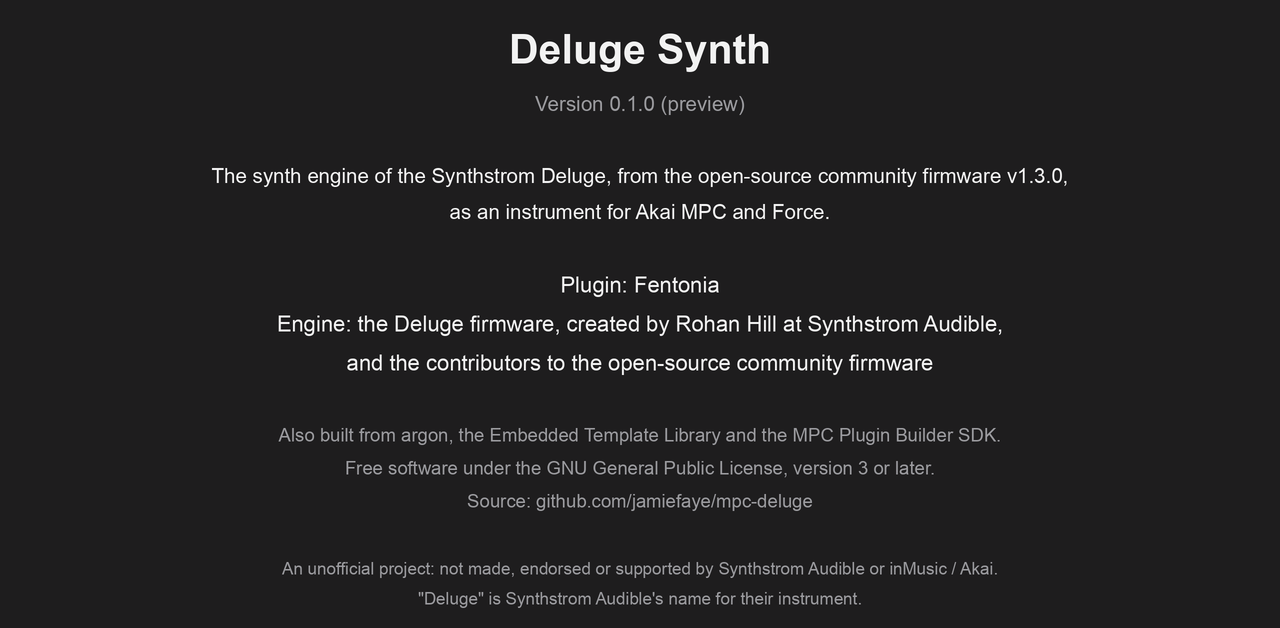
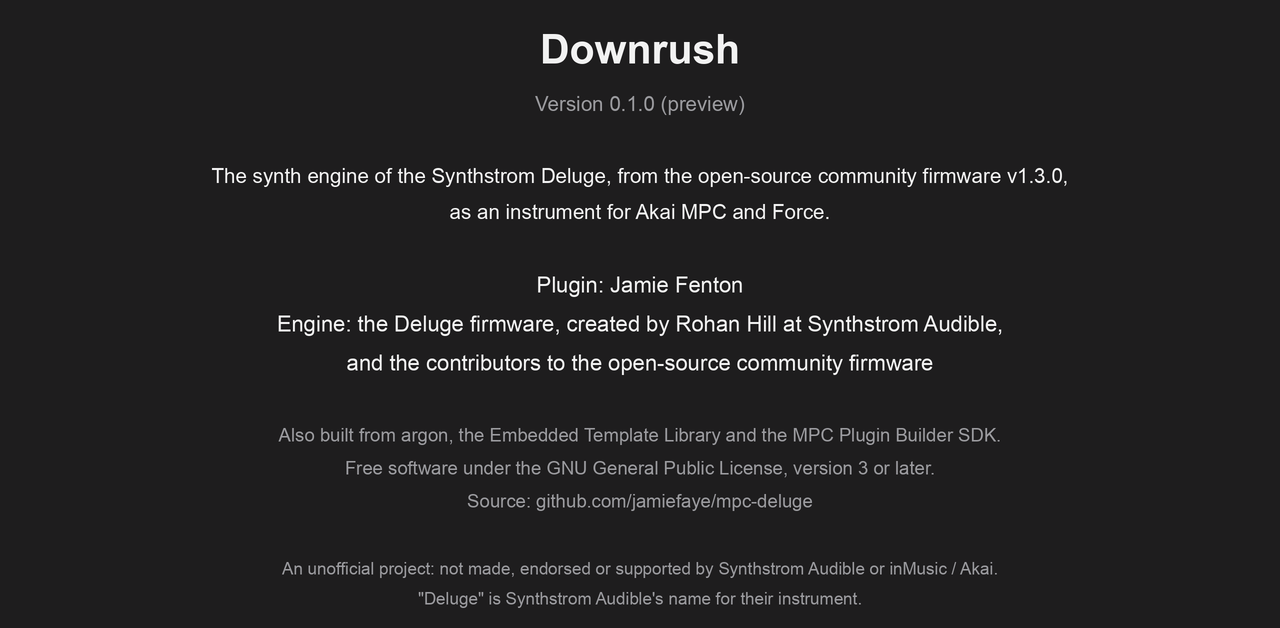
The plugin is Downrush, by Jamie Fenton
Renamed from "Deluge Synth" by "Fentonia" for release: the name no longer carries
Synthstrom's name for their instrument. Same uid and parameter ids; the built folder and
binaries take the new names. deploy.sh carries device-saved presets across the rename.

Changed region(s): [[0.375, 0.0303, 0.625, 0.121], [0.4062, 0.4236, 0.5938, 0.4841]]

diff --git a/plugins/deluge-synth/src/DelugeSynth.cpp b/plugins/deluge-synth/src/DelugeSynth.cpp
@@ -1,4 +1,8 @@
-// Deluge Synth - an MPC instrument plugin by Fentonia
+// Downrush - an MPC instrument plugin by Jamie Fenton
+//
+// (Called "Deluge Synth", by "Fentonia", until 2026-11-20; the uid is the same. The name
+// changed so that the plugin does not carry Synthstrom's name for their instrument; file and
+// class names here keep the old one.)
 //
 // The Synthstrom Deluge's synth engine, running the Deluge community firmware's own code: this
 // file is only the plugin shell. It picks a SYNTH preset file, hands MIDI notes to the engine and
@@ -1461,8 +1465,8 @@ private:
     static mpc::PluginInfo makeInfo()
     {
         mpc::PluginInfo info;
-        info.name         = "Deluge Synth";
-        info.vendor       = "Fentonia";   // must match plugin.json "manufacturer"
+        info.name         = "Downrush";
+        info.vendor       = "Jamie Fenton";   // must match plugin.json "manufacturer"
         info.uniqueId     = MPC_FOURCC(kUid[0], kUid[1], kUid[2], kUid[3]);   // must match plugin.json "uid"
         info.version      = 1000;         // 1.0.0.0
         info.isInstrument = true;
@@ -2123,7 +2127,7 @@ private:
                 f = std::fopen(file.c_str(), "a");
                 if (f == nullptr) return;
                 if (fresh)
-                    std::fputs("Sample files that presets asked for and Deluge Synth could not find. Each line is where the\n"
+                    std::fputs("Sample files that presets asked for and Downrush could not find. Each line is where the\n"
                                "file should be, inside the plugin folder; a file with that name anywhere under Content/SAMPLES\n"
                                "is found too. Delete this file to start the list again.\n", f);
             }
@@ -2331,7 +2335,7 @@ private:
         const double seconds = (double)frames / 44100.0;
         const int loaded = loadedPreset_.load();
         std::snprintf(text, sizeof text,
-                      "Deluge Synth diagnostics (written on prepare, on project/preset save, and every 3 s while audio runs)\n"
+                      "Downrush diagnostics (written on prepare, on project/preset save, and every 3 s while audio runs)\n"
                       "engine: %s build; this is instance %d in it (-1: none, too many instances)\n"
                       "presets found in Content/SYNTHS: %d\n"
                       "loaded preset: %d (%s), load error %d, loads so far %d\n"

diff --git a/tools/gen_grid.py b/tools/gen_grid.py
@@ -210,7 +210,7 @@ def generate(root):
             rule + ",", table, exceptions, count, title or name, cls))
     out.append("""// GENERATED by tools/gen_grid.py from the firmware's own menu items; do not edit by hand.
 //
-// The pads of the Deluge's shortcut grid that Deluge Synth offers as parameters: where each is on
+// The pads of the Deluge's shortcut grid that Downrush offers as parameters: where each is on
 // the grid, its range, and the text the firmware shows for its values. The order is the order of
 // the plugin's parameters, which MPC projects depend on: new pads are appended (see the tool).
 //

diff --git a/plugins/deluge-synth/src/grid_table.h b/plugins/deluge-synth/src/grid_table.h
@@ -1,6 +1,6 @@
 // GENERATED by tools/gen_grid.py from the firmware's own menu items; do not edit by hand.
 //
-// The pads of the Deluge's shortcut grid that Deluge Synth offers as parameters: where each is on
+// The pads of the Deluge's shortcut grid that Downrush offers as parameters: where each is on
 // the grid, its range, and the text the firmware shows for its values. The order is the order of
 // the plugin's parameters, which MPC projects depend on: new pads are appended (see the tool).
 //

diff --git a/tools/make_grid.py b/tools/make_grid.py
@@ -1,5 +1,5 @@
 #!/usr/bin/env python3
-"""Draw the background of Deluge Synth's GRID page: plugins/deluge-synth/skin-images/grid_bg.png,
+"""Draw the background of Downrush's GRID page: plugins/deluge-synth/skin-images/grid_bg.png,
 checked in. The Deluge's 16 x 8 shortcut grid with each pad's name on it, under a strip left
 plain for the gold knobs. tools/build.py ("grid" in tabs.json) puts the live parts over it: a bar
 in each cell and the touch that opens the cell's parameter.

diff --git a/tools/organize_library.py b/tools/organize_library.py
@@ -1,5 +1,5 @@
 #!/usr/bin/env python3
-"""Lay out a Deluge card's SYNTH presets, and the samples they use, as a library for Deluge Synth:
+"""Lay out a Deluge card's SYNTH presets, and the samples they use, as a library for Downrush:
 folders by collection instead of the card's one flat SYNTHS folder. Writes build/library/Content,
 which `./deploy.sh plugins/deluge-synth --content build/library` installs in place of the
 project's small Content/ (the one the tests use).

diff --git a/tests/plugin_variations.cpp b/tests/plugin_variations.cpp
@@ -1,4 +1,4 @@
-// A small VST2 host that loads the built Deluge Synth plugin and checks variations: a sound
+// A small VST2 host that loads the built Downrush plugin and checks variations: a sound
 // that arrives in a project's state with more than one set of parameter values (the "X" block of
 // saveExtraState in DelugeSynth.cpp, which is what the Deluge song converter writes), and the
 // Variation parameter that chooses between them.

diff --git a/tools/make_arrows.py b/tools/make_arrows.py
@@ -1,5 +1,5 @@
 #!/usr/bin/env python3
-"""Draw the up and down arrow buttons of Deluge Synth's MAIN page (previous / next folder and
+"""Draw the up and down arrow buttons of Downrush's MAIN page (previous / next folder and
 preset): plugins/deluge-synth/skin-images/arrow_{up,down}_{off,on}.png, checked in. tools/build.py copies
 that folder into the built skin and tabs.json ("buttons") says which parameters use them.
 

diff --git a/tools/make_steps.py b/tools/make_steps.py
@@ -1,5 +1,5 @@
 #!/usr/bin/env python3
-"""Draw the sixteen step buttons of Deluge Synth's SC STEPS page (the sidechain pattern, one bar
+"""Draw the sixteen step buttons of Downrush's SC STEPS page (the sidechain pattern, one bar
 of sixteenths): plugins/deluge-synth/skin-images/step_N_{off,on}.png, checked in. tabs.json
 ("buttons") places them in one row; the first step of each beat is a little lighter when off.
 

diff --git a/tools/make_about.py b/tools/make_about.py
@@ -1,5 +1,5 @@
 #!/usr/bin/env python3
-"""Draw Deluge Synth's ABOUT page (the credits) as a picture: skin-images/about.png, checked in,
+"""Draw Downrush's ABOUT page (the credits) as a picture: skin-images/about.png, checked in,
 from the "about" lines in the plugin's tabs.json and the version in its plugin.json.
 
 A picture because a skin's fixed-text labels do not show on a Force: the credits were first built

diff --git a/tests/plugin_two.cpp b/tests/plugin_two.cpp
@@ -1,4 +1,4 @@
-// A small VST2 host that runs several instances of the built Deluge Synth plugin in one process,
+// A small VST2 host that runs several instances of the built Downrush plugin in one process,
 // each on a thread of its own, as an MPC project with the plugin on several tracks does:
 //
 //   - each instance sounds, with its own preset

diff --git a/tests/plugin_grid.cpp b/tests/plugin_grid.cpp
@@ -1,4 +1,4 @@
-// A small VST2 host that loads the built Deluge Synth plugin and checks how its "engine
+// A small VST2 host that loads the built Downrush plugin and checks how its "engine
 // parameters" (the gold knobs and the shortcut-grid pads) behave together, which the SDK's
 // host_sim does not look at:
 //

diff --git a/README.md b/README.md
@@ -11,7 +11,7 @@ Jamie Fenton, written with Claude (Anthropic's AI model) doing much of the codin
 
 | Folder | What | State |
 |--------|------|-------|
-| `plugins/deluge-synth/` | **Deluge Synth**: the whole firmware engine playing Deluge SYNTH preset files | Plays on a Force (32-bit). [README](plugins/deluge-synth/README.md) |
+| `plugins/deluge-synth/` | **Downrush**: the whole firmware engine playing Deluge SYNTH preset files | Plays on a Force (32-bit). [README](plugins/deluge-synth/README.md) |
 | `plugins/deluge-proto/` | **Deluge Proto**: the first prototype, firmware oscillators and filters with stand-in voices | Ran on a Force; kept as the small example. [README](plugins/deluge-proto/README.md) |
 | `plugins/hello/` | The SDK's instrument template, unchanged; a toolchain check with no Deluge code | [README](plugins/hello/README.md) |
 | `patches/` | Every change made to the firmware and to Argon | See below |
@@ -38,7 +38,7 @@ The patches are porting work, not a fork of the engine:
 There are **no performance or size changes** to the engine, and no changes meant to alter its
 sound. The aim is the opposite: the same audio as a Deluge on the same firmware. The 32-bit ARM,
 64-bit ARM and ARM Mac builds produce identical samples for all 747 presets of one Deluge SD
-card. Against a real Deluge the comparison is close but not finished; see the Deluge Synth
+card. Against a real Deluge the comparison is close but not finished; see the Downrush
 README.
 
 Anything found here that looks like a bug in the firmware itself will be reported to
@@ -57,7 +57,7 @@ tools/vendor.sh                      # once: fills third_party/ and applies the 
 ./deploy.sh plugins/deluge-synth     # to an MPC over the network
 ```
 
-Presets and samples are not included: they are not ours to redistribute. The Deluge Synth README
+Presets and samples are not included: they are not ours to redistribute. The Downrush README
 says where to put your own.
 
 `CLAUDE.md` is the project's working log and notes for the AI assistant. It is long, dated, and
